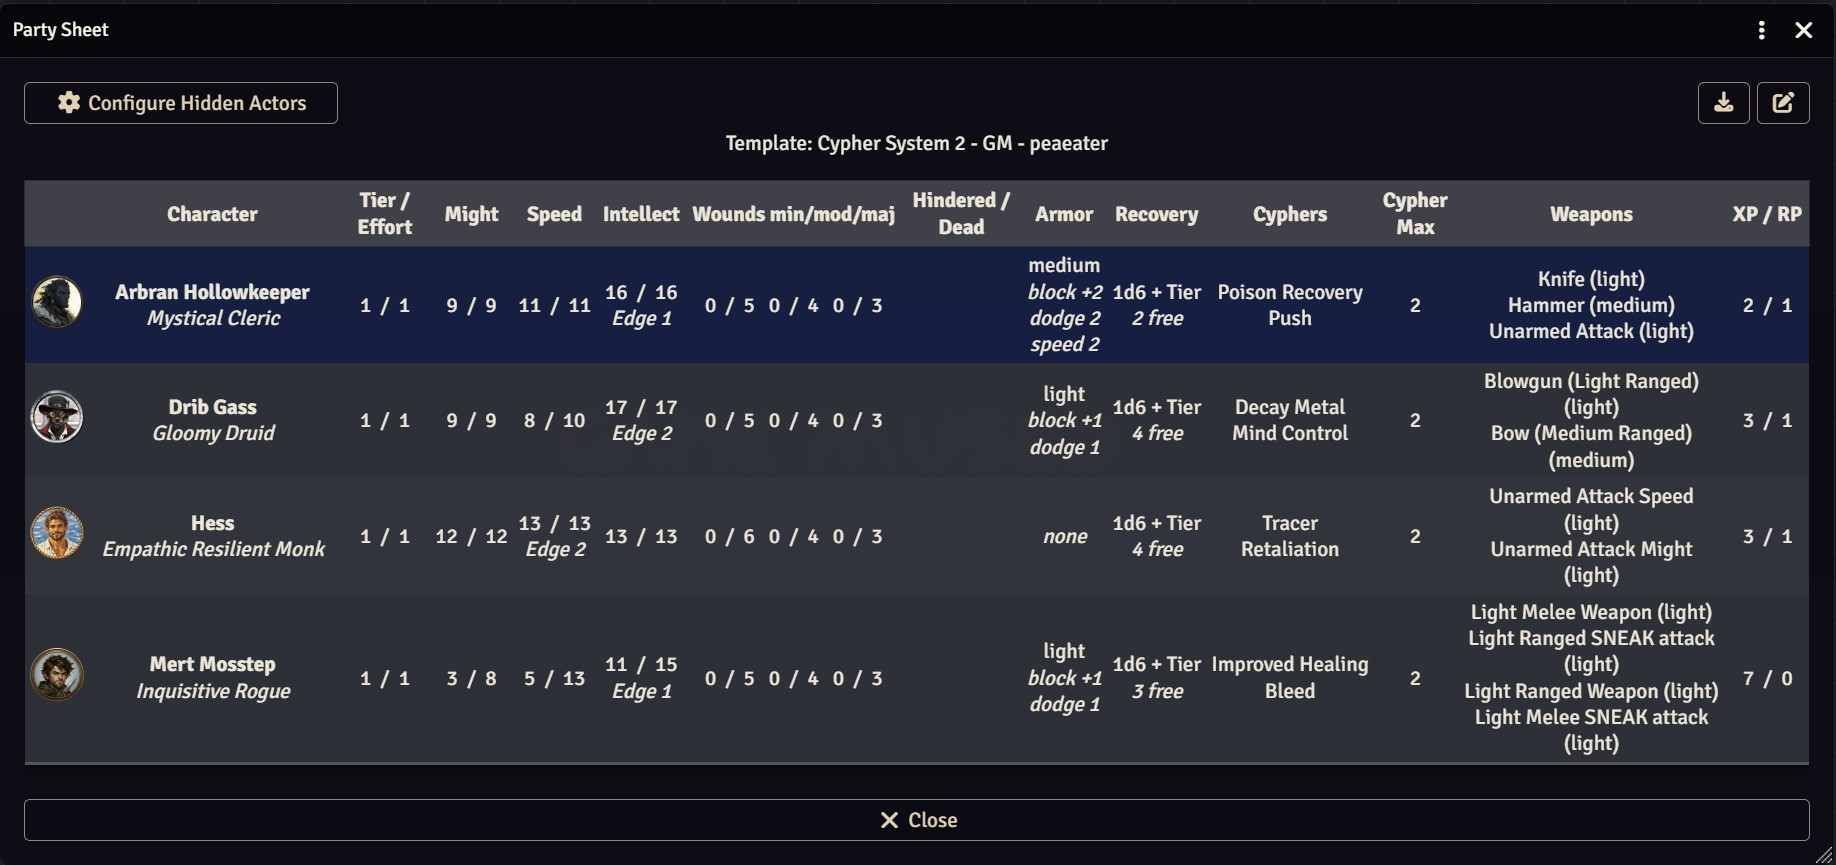
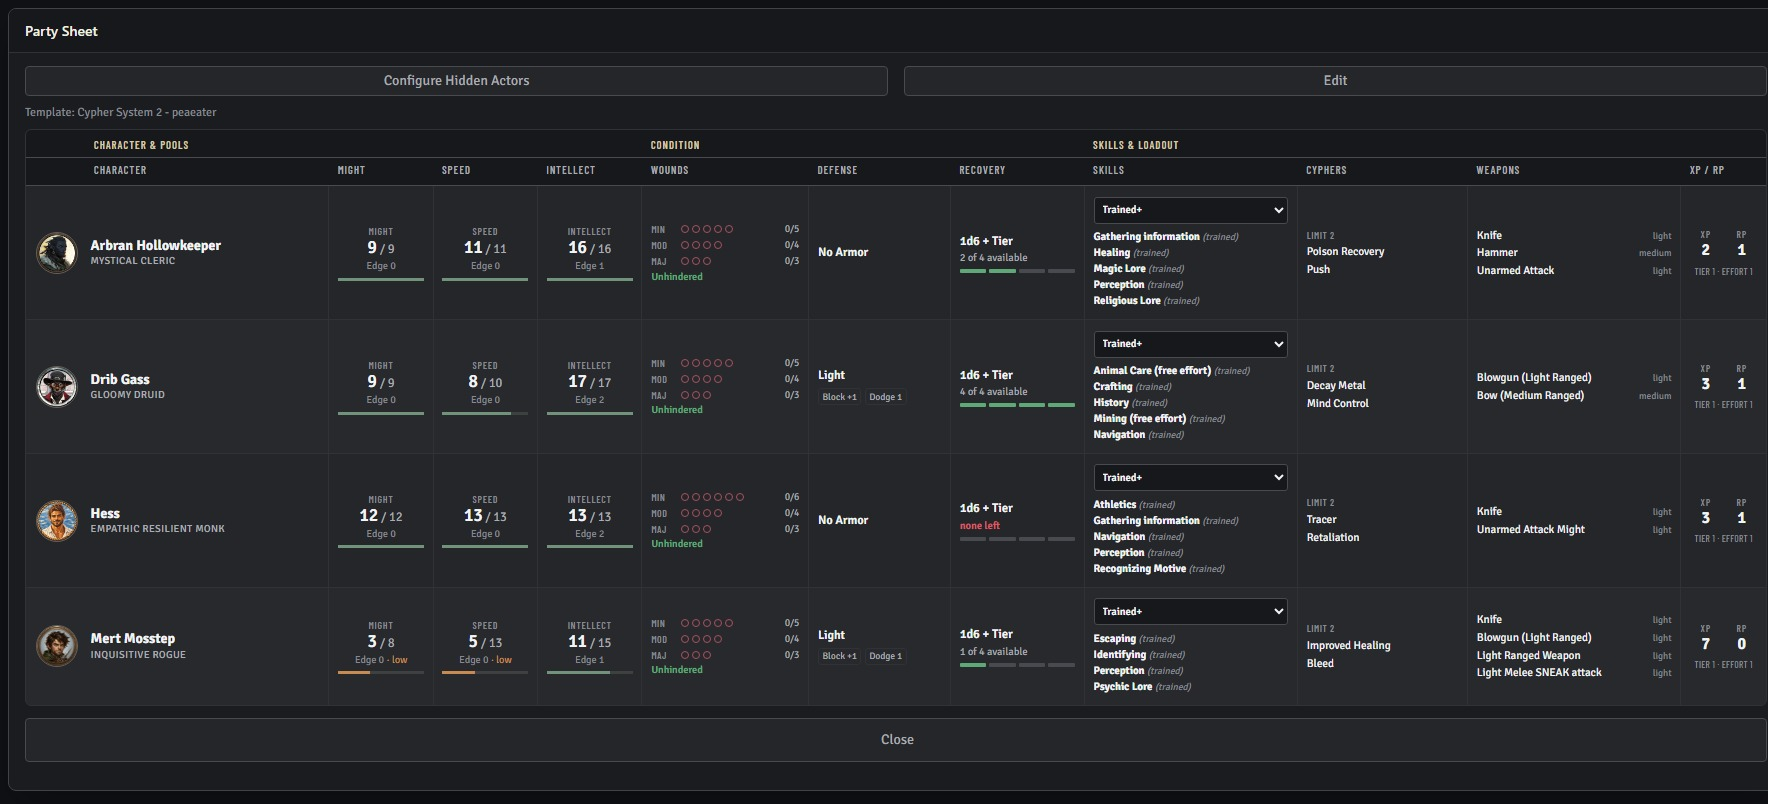
Update cypherv2 template to 2.0.0
Replace the 1.0.0 layout with the comparison matrix: grouped headers,
pool progress meters, combined wounds/state, defense, rank-grouped
skills, cyphers with limit, weapons, and XP/RP.

Set name to "Cypher System 2" and author to peaeater.

diff --git a/TEMPLATE_LIST.md b/TEMPLATE_LIST.md
@@ -70,7 +70,7 @@ Please unfold any entry to see a screenshot.
 
 ## Cypher System 2 "cypherv2"
 
-<details><summary>cypherv2.json - Peter Tyrrell</summary>
+<details><summary>cypherv2.json - peaeater</summary>
 
 ![Cypher System 2 Screenshot](https://github.com/EddieDover/fvtt-party-sheet-templates/blob/master/templates/cypherv2/cypherv2.jpg)
 
